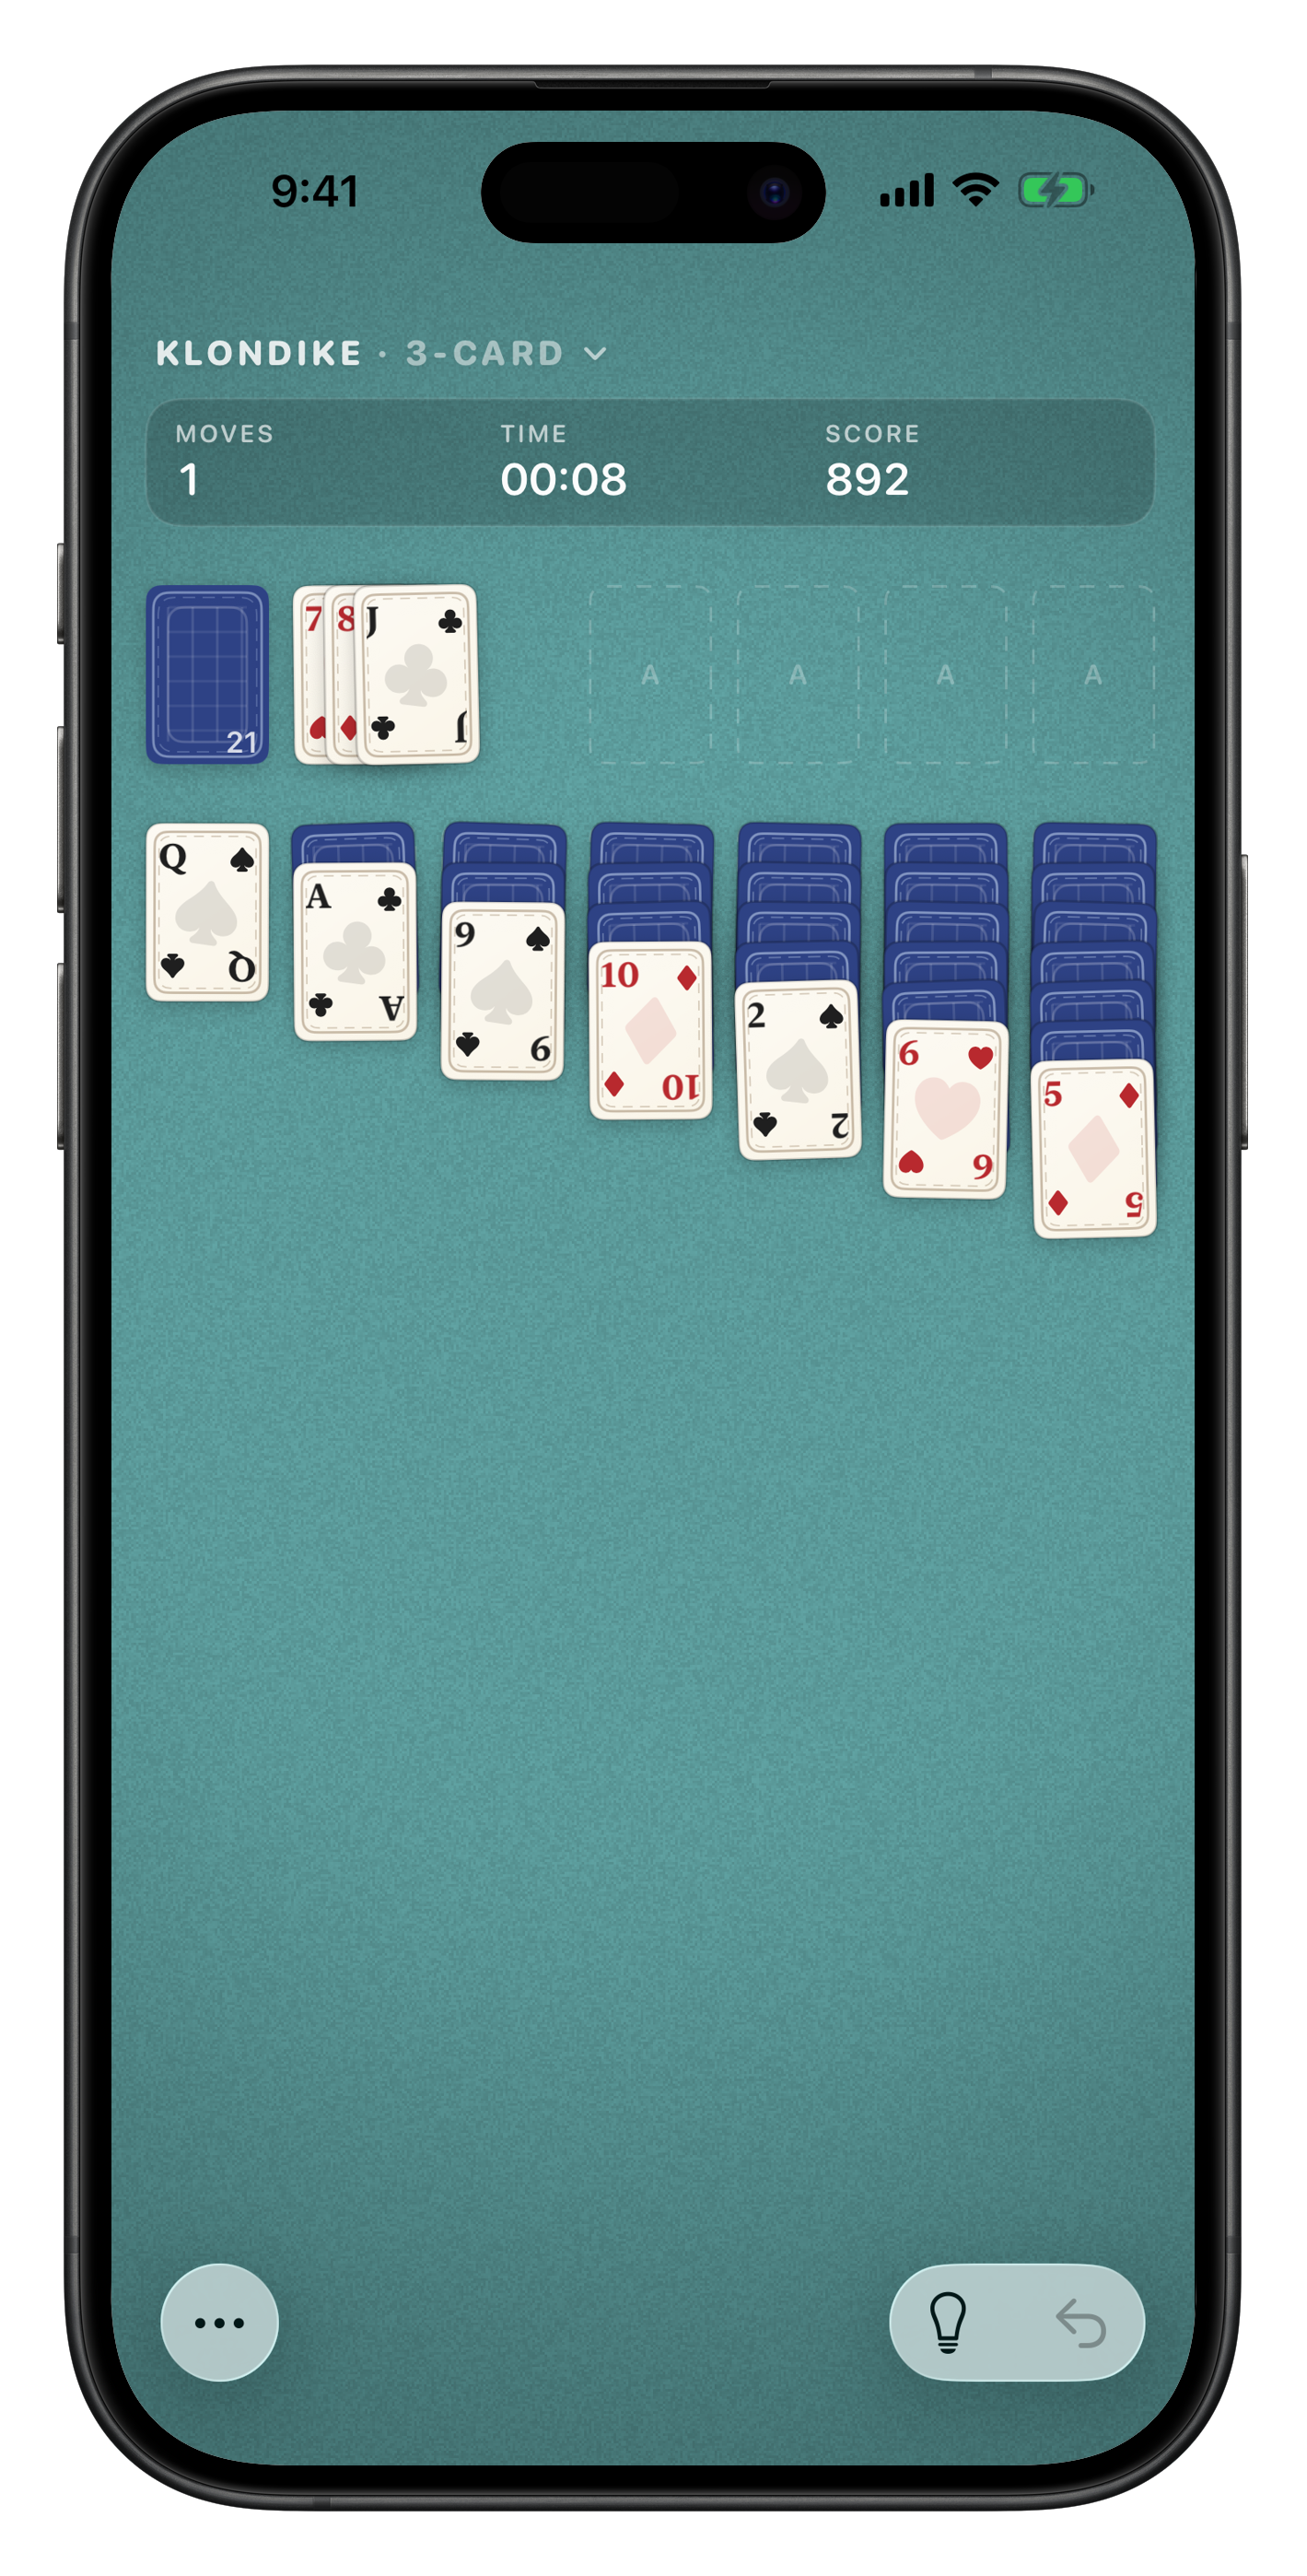
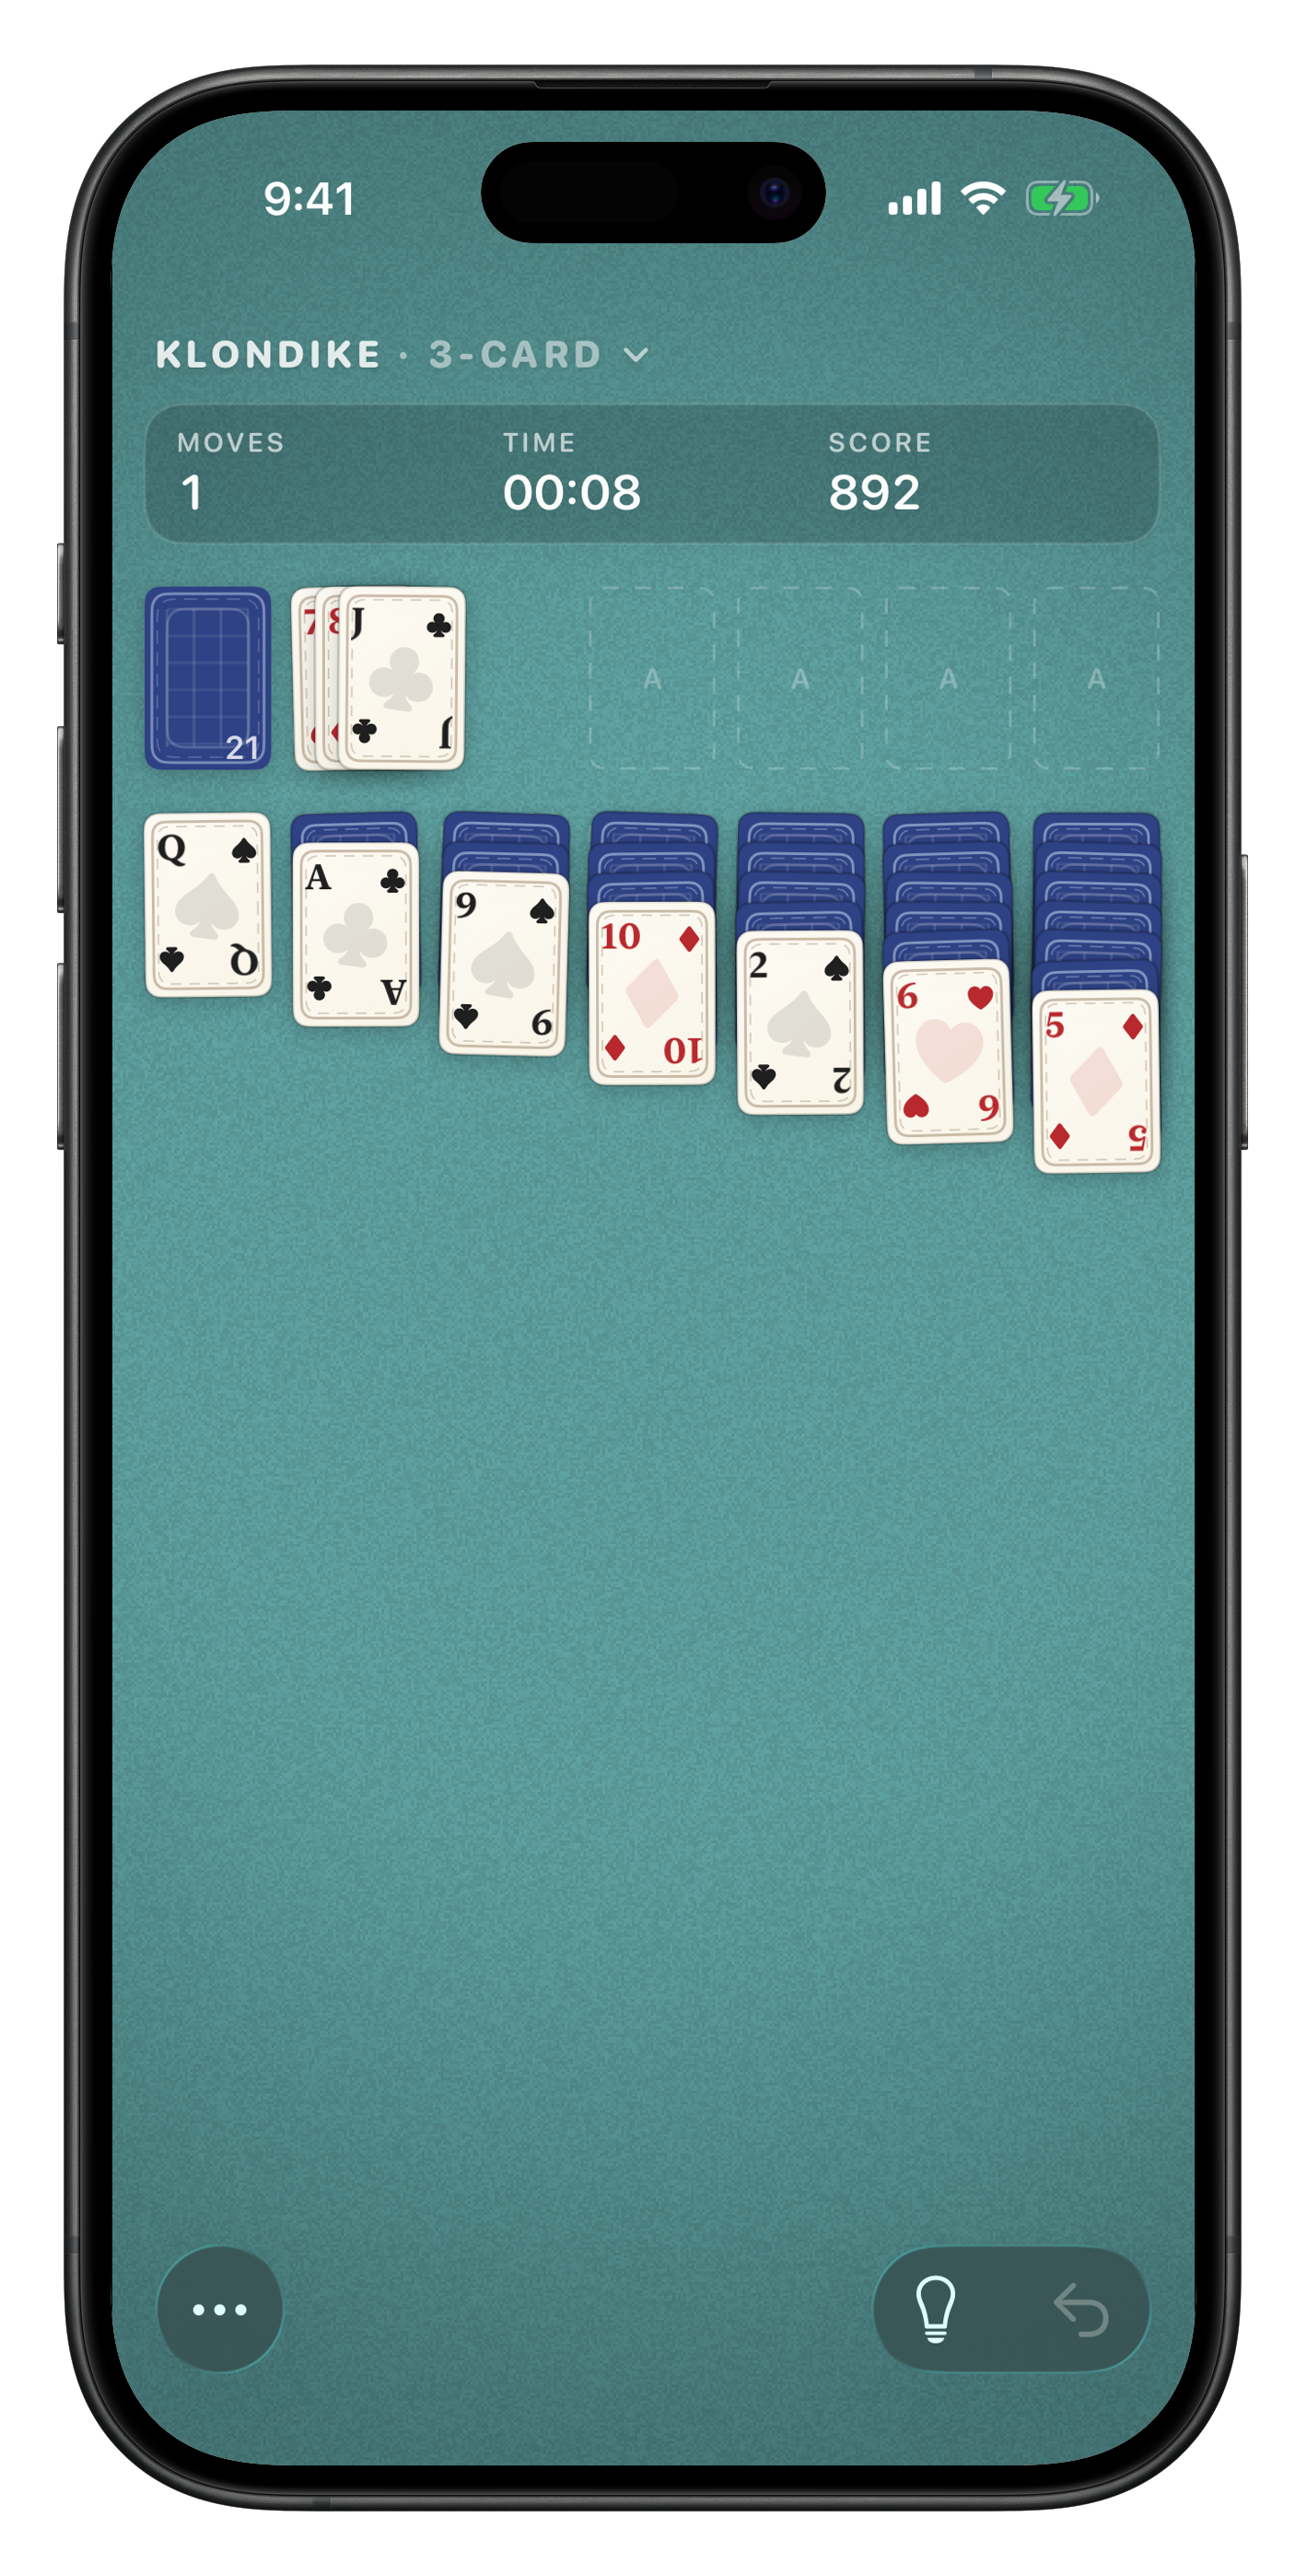
Merge pull request #69 from austin-smith/keep-screenshot-fixtures-in-sync
Keep screenshot fixtures in sync

Pull request: Keep screenshot fixtures in sync
## What Changed

- Added a shared screenshot fixture catalog used by both the app and UI test targets.
- Updated screenshot capture to cover all ten bundled game fixtures.
- Removed inconsistent “fresh deal” fixture metadata while preserving meaningful mode qualifiers.
- Refreshed the tracked iOS and macOS README screenshots.

## Why

The screenshot UI test duplicated the app’s fixture list and had fallen out of sync, so only four of ten game variants were captured. Sharing one ordered catalog prevents that drift.

## Validation

- Ran the macOS test suite: 541 tests passed with 0 failures; 10 fixture generators skipped as designed.
- Built the macOS app successfully.
- Ran dark-mode Fastlane capture on iPhone 17 Pro Max and iPhone 17 Pro.
- Verified 20 generated PNGs at the expected dimensions.
- Visually reviewed the newly included game screenshots.
- Ran `git diff --check`.

## UI Changes

Updated the tracked iOS and macOS screenshots to reflect the current dark appearance.

diff --git a/Shared/ScreenshotFixtureCatalog.swift b/Shared/ScreenshotFixtureCatalog.swift
@@ -1,0 +1,25 @@
+/// A staged board included in the App Store screenshot set.
+struct ScreenshotFixture: Identifiable, Hashable {
+    /// Bundle resource name and emitted screenshot file name.
+    let name: String
+    /// Human-readable description of the staged board.
+    let title: String
+
+    var id: String { name }
+}
+
+/// The single ordered manifest shared by the app and screenshot UI tests.
+enum ScreenshotFixtureCatalog {
+    static let bundled: [ScreenshotFixture] = [
+        ScreenshotFixture(name: "klondike-draw3", title: "Klondike – Draw 3"),
+        ScreenshotFixture(name: "freecell", title: "FreeCell"),
+        ScreenshotFixture(name: "yukon", title: "Yukon"),
+        ScreenshotFixture(name: "spider", title: "Spider – 2 suits"),
+        ScreenshotFixture(name: "pyramid", title: "Pyramid"),
+        ScreenshotFixture(name: "tripeaks", title: "TriPeaks"),
+        ScreenshotFixture(name: "golf", title: "Golf"),
+        ScreenshotFixture(name: "fortythieves", title: "Forty Thieves"),
+        ScreenshotFixture(name: "scorpion", title: "Scorpion"),
+        ScreenshotFixture(name: "canfield", title: "Canfield")
+    ]
+}

diff --git a/ComputerSolitaire/Fixtures/ScreenshotFixtures.swift b/ComputerSolitaire/Fixtures/ScreenshotFixtures.swift
@@ -1,16 +1,5 @@
 import Foundation
 
-/// A staged mid-game board for App Store screenshots.
-struct ScreenshotFixture: Identifiable, Hashable {
-    /// Bundle resource name of the `SavedGamePayload` JSON, and the screenshot
-    /// file name the capture UI test emits.
-    let name: String
-    /// Human-readable description of the board.
-    let title: String
-
-    var id: String { name }
-}
-
 /// Staged boards for App Store screenshots.
 ///
 /// Launching with `-screenshotFixture <name>` restores the named board instead
@@ -28,18 +17,7 @@ enum ScreenshotFixtures {
 
     /// Boards shipped in the app bundle; validated by `ScreenshotFixtureTests`.
     /// One entry per App Store screenshot, in store order.
-    static let bundled: [ScreenshotFixture] = [
-        ScreenshotFixture(name: "klondike-draw3", title: "Klondike – Draw 3"),
-        ScreenshotFixture(name: "freecell", title: "FreeCell – fresh deal"),
-        ScreenshotFixture(name: "yukon", title: "Yukon – fresh deal"),
-        ScreenshotFixture(name: "spider", title: "Spider – 2 suits"),
-        ScreenshotFixture(name: "pyramid", title: "Pyramid – fresh deal"),
-        ScreenshotFixture(name: "tripeaks", title: "TriPeaks – fresh deal"),
-        ScreenshotFixture(name: "golf", title: "Golf – fresh deal"),
-        ScreenshotFixture(name: "fortythieves", title: "Forty Thieves – fresh deal"),
-        ScreenshotFixture(name: "scorpion", title: "Scorpion – fresh deal"),
-        ScreenshotFixture(name: "canfield", title: "Canfield – fresh deal")
-    ]
+    static let bundled = ScreenshotFixtureCatalog.bundled
 
     static func payloadFromLaunchArguments() -> SavedGamePayload? {
         guard let name = value(after: launchArgument) else { return nil }

diff --git a/ComputerSolitaireUITests/ScreenshotCaptureUITests.swift b/ComputerSolitaireUITests/ScreenshotCaptureUITests.swift
@@ -13,15 +13,9 @@ import AppKit
 /// the capture; the macOS leg (which snapshot doesn't support) runs this same
 /// test via xcodebuild and collects the attachment instead.
 final class ScreenshotCaptureUITests: XCTestCase {
-    /// Kept in sync with `ScreenshotFixtures.bundled` by hand: UI tests run in
-    /// a separate process and cannot import the app module. One board per App
-    /// Store screenshot, in store order.
-    private static let boards = [
-        "klondike-draw3",
-        "freecell",
-        "yukon",
-        "spider"
-    ]
+    /// One board per App Store screenshot, in store order. The catalog source
+    /// is compiled into both targets because UI tests cannot import the app.
+    private static let boards = ScreenshotFixtureCatalog.bundled.map(\.name)
 
     /// Appearance for every screenshot, pinned via UserDefaults launch
     /// arguments so simulator state can't change the look between runs.

diff --git a/README.md b/README.md
@@ -13,9 +13,11 @@ Computer Solitaire is a fully native Solitaire app for iOS, iPadOS, and macOS.
 ## Features
 
 - Fully native apps for iOS, iPadOS, and macOS
-- Multiple game variants: **Klondike** (both 1-card and 3-card draw), **Spider** (1, 2, or 4 suits), **FreeCell**, **Pyramid**, **TriPeaks**, **Golf**, **Yukon**, **Scorpion**, **Forty Thieves**, and **Canfield**
+- 10 game variants: **Klondike** (both 1-card and 3-card draw), **Spider** (1, 2, or 4 suits), **FreeCell**, **Pyramid**, **TriPeaks**, **Golf**, **Yukon**, **Scorpion**, **Forty Thieves**, and **Canfield**
+- Solver-computed hints
+- Game statistics for every variant
 - Automatic game persistence and resume
-- Customizable table appearance
+- Customizable cards and table appearance
 - Other things you enjoy
 
 ## Game Variants